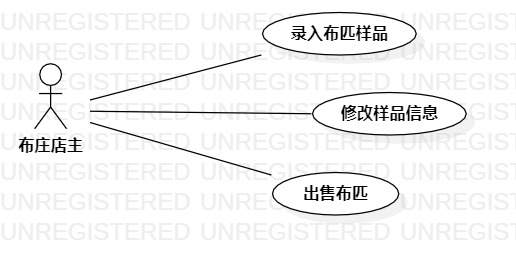
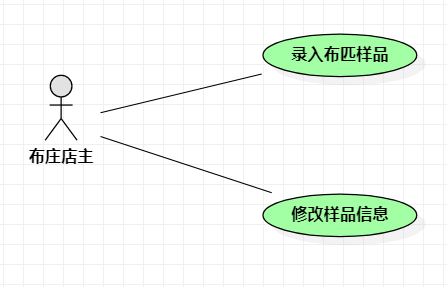
#6 #111 实验六 交互建模

diff --git a/students/1714080902339/lab2.md b/students/1714080902339/lab2.md
@@ -14,14 +14,13 @@
    
 ## 三、 实验步骤  
    
-1. 选题为布匹批发系统
+1. 选题为布匹样品展览系统
 2. 根据issues在StarUML上创建用例图（Lab2_UseCaseDiagram）
 3. 确定参与者（Actor）:  
       - 布庄店主   
 4. 确定用例（UserCase）:   
       - 录入布匹样品
       - 修改样品信息
-      - 出售布匹
 5. 建立Actor和UserCase之间的联系
 6. 绘画用例图（Lab2_UseCaseDiagram）
 7. 编写用例规约
@@ -30,21 +29,19 @@
 
 1. 画图  
 ![用例图](./Lab2_UseCaseDiagram.jpg)  
-图1:布匹批发系统的用例图
+图1:布匹样品展览系统的用例图
 
 ## 表1：录入布匹样品用例规约  
 
 用例编号  | UC01 | 备注  
 -|:-|-  
-用例名称  | 录入布匹样品  |   
-前置条件  |  布庄店主登录进入布匹批发系统   | *可选*   
-后置条件  | 布庄店主进入布匹样品页面     | *可选*   
-基本流程  | 1. 布庄店主点击录入布匹样品按钮；  |*用例执行成功的步骤*    
-~| 2. 系统显示布匹样品录入页面；  |   
-~| 3. 布庄店主导入样品图、填写样品信息，点击录入按钮；  |   
-~| 4. 系统查询布匹样品信息，检查未存在相同布匹样品，保存布匹样品信息；  |   
-~| 5. 系统显示布匹样品页面。  |  
-扩展流程  | 4.1 系统检查发现布匹样品已经存在，提示布庄店主“该布匹样品已经存在”。 |*用例执行失败*    
+用例名称  | 进入录入布匹样品  |   
+前置条件  |  布庄店主进入样品录入页面   | *可选*   
+后置条件  |       | *可选*   
+基本流程  | 1. 布庄店主导入样品图、填写样品信息，点击录入按钮；   |*用例执行成功的步骤*    
+~| 2. 系统查询布匹样品信息，检查未存在相同布匹样品，保存布匹样品信息；  |   
+~| 3. 系统显示布匹样品页面   |
+扩展流程  | 2.1 系统检查发现布匹样品已经存在，提示布庄店主“该布匹样品已经存在”。 |*用例执行失败*    
 
 
 ## 表2：修改样品信息用例规约  
@@ -52,27 +49,13 @@
 用例编号  | UC02 | 备注  
 -|:-|-  
 用例名称  | 修改样品信息  |   
-前置条件  |  布庄店主进入布匹样品页面   | *可选*   
+前置条件  |  布庄店主进入布匹样品信息修改页面   | *可选*   
 后置条件  |    | *可选*   
-基本流程  | 1. 布庄店主点击需更改信息的布匹样品链接；  |*用例执行成功的步骤*    
-~| 2. 系统显示布匹样品信息修改页面；  |   
-~| 3. 布庄店主修改相关样品信息，点击保存按钮；  |   
-~| 4. 系统查询修改后的布匹样品信息，检查未与系统其它已有布匹样品信息雷同，保存布匹样品信息；  |   
-~| 5. 系统布匹样品页面。  |  
-扩展流程  | 4.1 系统检查发现与其它已有布匹样品信息雷同，提示布庄店主“与已有样品信息雷同”；  |*用例执行失败*    
-~| 4.2 系统检查发现当前修改与未修改前信息一致，提示布庄店主“此次修改无改动”。  |  
+基本流程  | 1. 布庄店主修改相关样品信息，点击保存按钮；   |*用例执行成功的步骤*         
+~| 2. 系统查询修改后的布匹样品信息，检查未与系统其它已有布匹样品信息雷同，保存布匹样品信息；  |   
+~| 3. 系统显示布匹样品页面。  |  
+扩展流程  | 2.1 系统检查发现与其它已有布匹样品信息雷同，提示布庄店主“与已有样品信息雷同”；  |*用例执行失败*    
+~| 2.2 系统检查发现当前修改与未修改前信息一致，提示布庄店主“此次修改无改动”。  |  
 
-## 表3：出售布匹用例规约  
 
-用例编号  | UC03 | 备注  
--|:-|-  
-用例名称  | 出售布匹  |   
-前置条件  |  布庄店主进入布匹样品页面   | *可选*   
-后置条件  |     | *可选*   
-基本流程  | 1. 布庄店主点击需要出售的布匹样品链接；  |*用例执行成功的步骤*    
-~| 2. 系统显示布匹样品信息页面；  |   
-~| 3. 布庄店主填写出售数量，点击出售按钮；  |   
-~| 4. 系统查询布匹样品信息，检查出售数量小于库存数量， 提交出售记录； |   
-~| 5. 系统显示商品出售页面。  |  
-扩展流程  | 4.1 系统检查发现库存不足，提示布庄店主“该型号布匹库存不足，无法达成交易”。  |*用例执行失败* 
 

diff --git a/students/1714080902339/lab6.md b/students/1714080902339/lab6.md
@@ -1,0 +1,44 @@
+# 实验六：交互建模
+
+## 一、实验目标
+
+1. 理解系统交互
+2. 掌握UML顺序图的画法
+3. 掌握对象交互的定义与建模方法
+
+## 二、实验内容
+
+1. 根据用例模型和类模型，确定功能所涉及的系统对象
+2. 在顺序图上画出参与者（对象）
+3. 在顺序图上画出消息（交互）
+
+## 三、实验步骤
+
+### 课堂笔记  
+1.  顺序图的构成、及其画法  
+    （1）参与者：使用矩形表示  
+    （2）生命线：使用竖直的虚线表示  
+    （3）事件、信号与消息：用带箭头的线来画，在不同情况下使用不同的线，常使用同步类型  
+    （4）存活条/激活条生：使用命线上的矩形表示   
+2.  顺序图的“时间顺序”：仅表示前后顺序，不表示时间跨度  
+3.  各种消息类型对应的箭头，常见的有同步消息、异步消息和返回消息
+
+### 实验操作
+1. 回顾前面实验，修改不合理的用例规约、用例图、活动图和类图
+2. 创建录入布匹样品的顺序图
+3. 首先查看实验2中的用例规约，查找actor，和根据类图，创建1+N个参与者
+4. 根据活动图中的操作流程，精简在顺序图中画出来
+5. 创建修改样品信息的顺序图
+6. 查找actor，和根据类图，创建1+N个参与者
+7. 根据活动图中的操作流程，精简在顺序图中画出来
+8. 完成实验报告
+
+## 四、实验结果
+
+![录入布匹样品的顺序图](./Lab6_1.jpg)  
+图1：录入布匹样品的顺序图
+
+![修改样品信息的顺序图](./Lab6_2.jpg)  
+图2：修改样品信息的顺序图
+
+

diff --git a/students/1714080902339/lab3.md b/students/1714080902339/lab3.md
@@ -11,7 +11,7 @@
 
 ## 三、实验步骤
 
-1. 创建三个活动图：录入布匹样品、修改样品信息、出售布匹三个活动图
+1. 创建两个活动图：录入布匹样品、修改样品信息两个活动图
 2. 添加initial和final
 3. 根据用例规约添加action
 eg.在录入布匹样品活动图中添加活动：  
@@ -33,8 +33,6 @@ eg.在录入布匹样品活动图中添加活动：
 ![修改样品信息的活动图](./Lab3_ActivitiesDiagram2.jpg)  
 图2：修改样品信息的活动图
 
-![出售布匹的活动图](./Lab3_ActivitiesDiagram3.jpg)  
-图3：出售布匹的活动图
 
 
 ## 五、实验总结

diff --git a/students/1714080902339/lab4.md b/students/1714080902339/lab4.md
@@ -51,5 +51,3 @@
 图1. 类图1  
 ![类图2](./lab4_classDiagram2.jpg)  
 图2. 类图2  
-![类图3](./lab4_classDiagram3.jpg)  
-图3. 类图3  
